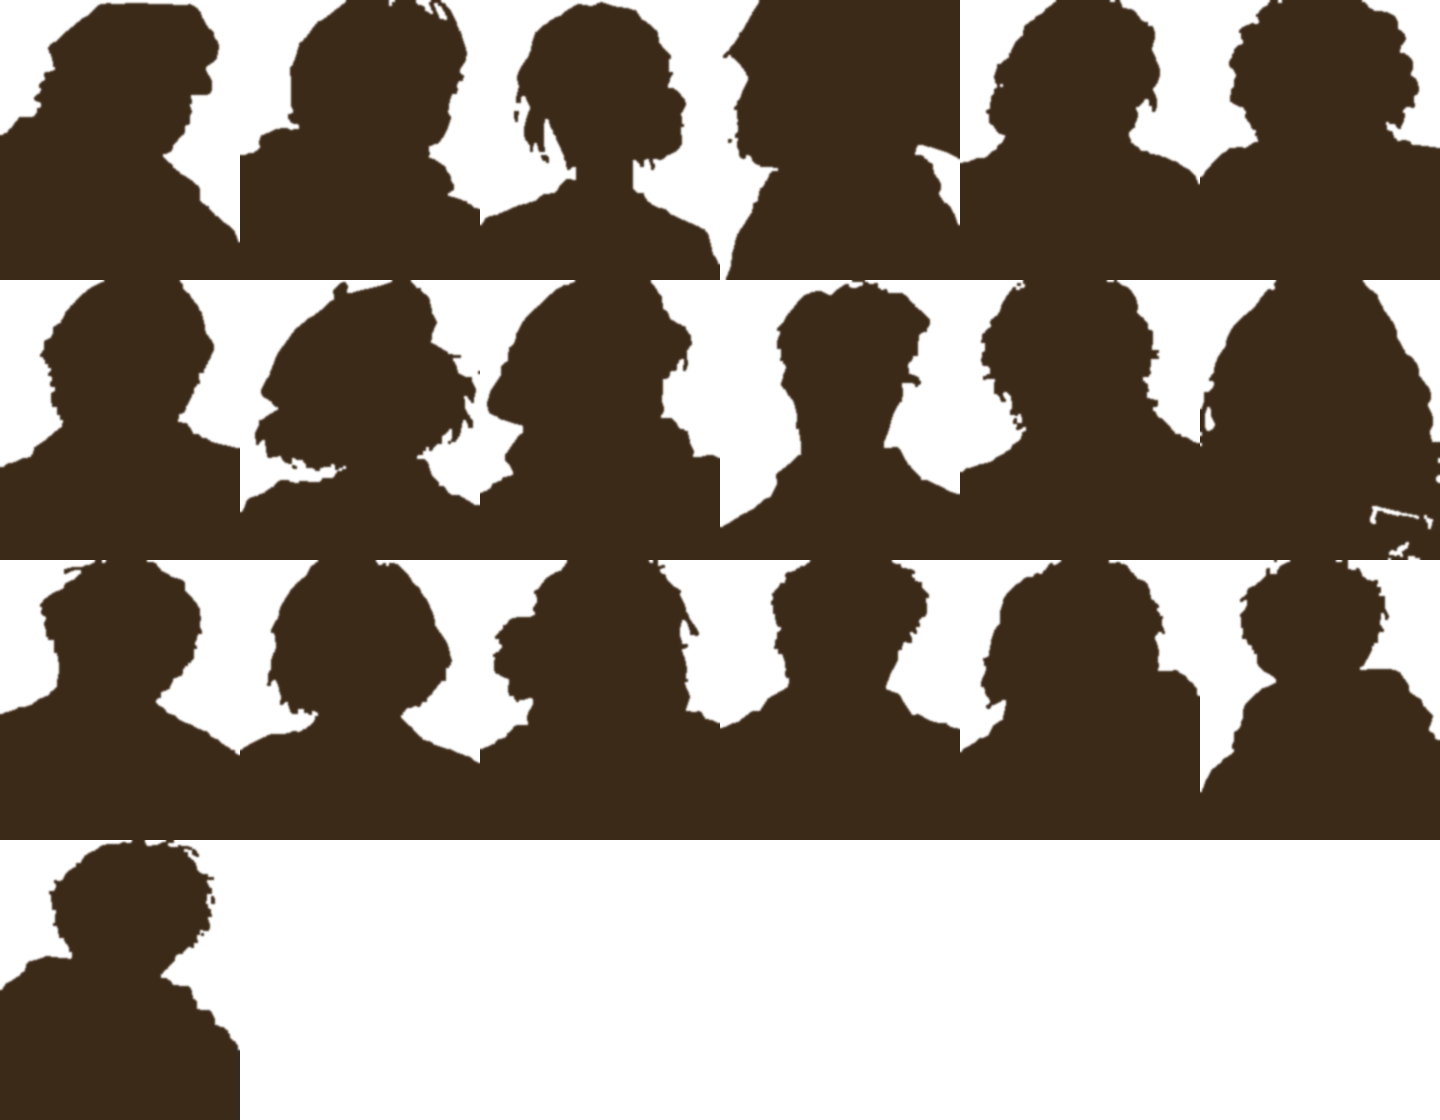
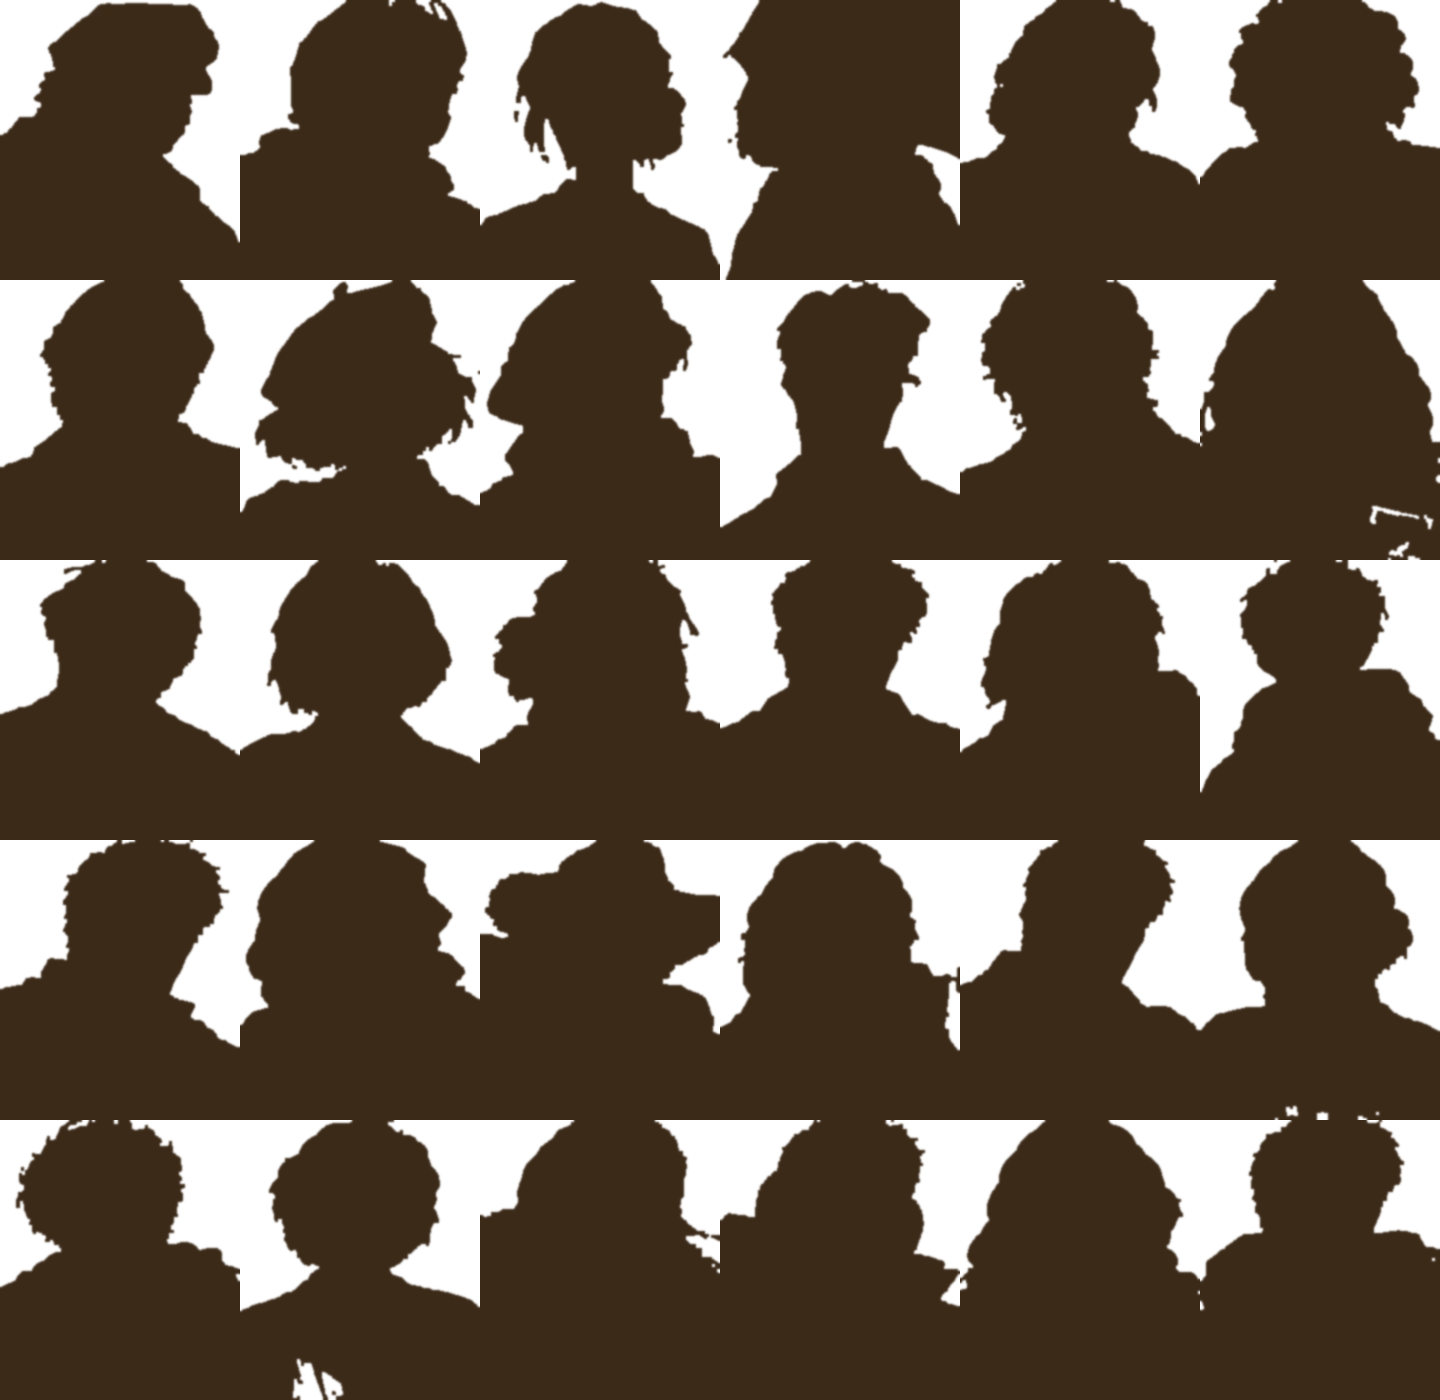
art: wire residents sheet, silhouettes for residents, cache the sheet
Claude-Session: https://claude.ai/code/session_01TM6CRcAdmGg5EsNHz8kC6T

diff --git a/sw.js b/sw.js
@@ -1,5 +1,5 @@
-const CACHE='taptocity-story-20261008c-towns';
-const SHELL=['./assets/illustrated/underground-icons.webp','./assets/illustrated/survivors-silhouettes.webp?v=2','./assets/illustrated/crows-kids.webp','./assets/illustrated/player-faceless.webp','./assets/illustrated/story-1.webp?v=1','./assets/illustrated/story-2.webp?v=1','./assets/illustrated/story-3.webp?v=1','./assets/illustrated/world-panorama.webp','./assets/illustrated/founder-expressions.webp','./','./index.html','./chapter-design.js?v=20261008-res','./assets/illustrated/regional-npcs.webp','./assets/illustrated/module-upgrades.webp','./assets/illustrated/ash-foes.webp','./assets/illustrated/world-scenes.webp','./settlement.js?v=20261006-petscale','./assets/illustrated/settlement-props.webp','./assets/illustrated/companions.webp','./people.js?v=20261001-people','./manifest.webmanifest','./cloud.js','./cloud-config.js','./fonts/ttc-sans.woff2','./icons/icon-192.png?v=2','./icons/icon-512.png?v=2','./design.css?v=20261004-anonymous','./qa.css?v=20261008a','./story-art.js?v=20261005e','./music.js?v=20261006a','./design.js?v=20261008-res','./assets/illustrated/survivors-signals.webp','./assets/illustrated/survivors-neighbors.webp','./assets/illustrated/shelters.webp','./assets/illustrated/survivors-founders.webp','./assets/illustrated/modules.webp','./assets/illustrated/survivors-scouts.webp','./assets/illustrated/survivors-frontier.webp','./assets/illustrated/radio.webp','./assets/illustrated/exploration-sites.webp','./assets/illustrated/landmarks.webp'];
+const CACHE='taptocity-story-20261008d-residents';
+const SHELL=['./assets/illustrated/underground-icons.webp','./assets/illustrated/survivors-silhouettes.webp?v=3','./assets/illustrated/crows-kids.webp','./assets/illustrated/residents.webp','./assets/illustrated/player-faceless.webp','./assets/illustrated/story-1.webp?v=1','./assets/illustrated/story-2.webp?v=1','./assets/illustrated/story-3.webp?v=1','./assets/illustrated/world-panorama.webp','./assets/illustrated/founder-expressions.webp','./','./index.html','./chapter-design.js?v=20261008-res2','./assets/illustrated/regional-npcs.webp','./assets/illustrated/module-upgrades.webp','./assets/illustrated/ash-foes.webp','./assets/illustrated/world-scenes.webp','./settlement.js?v=20261006-petscale','./assets/illustrated/settlement-props.webp','./assets/illustrated/companions.webp','./people.js?v=20261001-people','./manifest.webmanifest','./cloud.js','./cloud-config.js','./fonts/ttc-sans.woff2','./icons/icon-192.png?v=2','./icons/icon-512.png?v=2','./design.css?v=20261004-anonymous','./qa.css?v=20261008a','./story-art.js?v=20261005e','./music.js?v=20261006a','./design.js?v=20261008-res2','./assets/illustrated/survivors-signals.webp','./assets/illustrated/survivors-neighbors.webp','./assets/illustrated/shelters.webp','./assets/illustrated/survivors-founders.webp','./assets/illustrated/modules.webp','./assets/illustrated/survivors-scouts.webp','./assets/illustrated/survivors-frontier.webp','./assets/illustrated/radio.webp','./assets/illustrated/exploration-sites.webp','./assets/illustrated/landmarks.webp'];
 self.addEventListener('install',e=>{e.waitUntil(caches.open(CACHE).then(c=>c.addAll(SHELL)).then(()=>self.skipWaiting()));});
 self.addEventListener('activate',e=>{e.waitUntil(caches.keys().then(ks=>Promise.all(ks.filter(k=>k.startsWith('taptocity-')&&k!==CACHE).map(k=>caches.delete(k)))).then(()=>self.clients.claim()));});
 self.addEventListener('fetch',e=>{const r=e.request;if(r.method!=='GET')return;

diff --git a/design.js b/design.js
@@ -28,9 +28,9 @@
     return '<svg class="illustrated-portrait" viewBox="0 0 120 140" role="img" aria-label="'+escape(s.name)+' 초상화"><svg width="120" height="140" viewBox="'+[x,y,w,h].join(' ')+'" preserveAspectRatio="xMidYMin slice"><image href="'+base+a.file+'" width="'+a.w+'" height="'+a.h+'" preserveAspectRatio="none"/></svg></svg>';
   }
   // undiscovered survivors: the real portrait as a dark cut-out (same crop as the portrait), so the shape hints at who they are
-  const SIL={file:'survivors-silhouettes.webp?v=2',cols:6,rows:4,w:1440,h:1120}; // ids 0..17 (row 3 spare)
+  const SIL={file:'survivors-silhouettes.webp?v=3',cols:6,rows:5,w:1440,h:1400}; // ids 0..29
   function silhouette(s){
-    const p=s&&portraits[s.id];if(!p)return null;
+    const p=s&&(portraits[s.id]||(s.src==='town'&&s.id>=18&&s.id<30));if(!p)return null;
     const w=SIL.w/SIL.cols,h=SIL.h/SIL.rows,x=s.id%SIL.cols*w,y=Math.floor(s.id/SIL.cols)*h,hid=!!s.hidden;
     return '<svg class="illustrated-portrait sil" viewBox="0 0 120 140" role="img" aria-label="아직 만나지 못한 생존자"><rect width="120" height="140" fill="#e6d8b6"/><svg x="0" y="4" width="120" height="136" viewBox="'+[x,y,w,h].join(' ')+'" preserveAspectRatio="xMidYMin slice" opacity=".86"><image href="'+base+SIL.file+'" width="'+SIL.w+'" height="'+SIL.h+'" preserveAspectRatio="none"/></svg><circle cx="96" cy="112" r="16" fill="'+(hid?'#ffd24a':'#f3d9a0')+'" stroke="#3b2a1a" stroke-width="2.4"/><text x="96" y="'+(hid?'119':'120')+'" text-anchor="middle" font-family="Gowun Batang,serif" font-size="'+(hid?'18':'21')+'" font-weight="700" fill="#3b2a1a">'+(hid?'★':'?')+'</text></svg>';
   }

diff --git a/index.html b/index.html
@@ -1260,10 +1260,10 @@ header{padding:12px 14px 0;background:radial-gradient(ellipse at 18% -40%,rgba(2
   </div>
 </div>
 
-<script src="chapter-design.js?v=20261008-res"></script>
+<script src="chapter-design.js?v=20261008-res2"></script>
 <script src="settlement.js?v=20261006-petscale"></script>
 <script src="people.js?v=20261001-people"></script>
-<script src="design.js?v=20261008-res"></script>
+<script src="design.js?v=20261008-res2"></script>
 <script>
 
 (function(){
